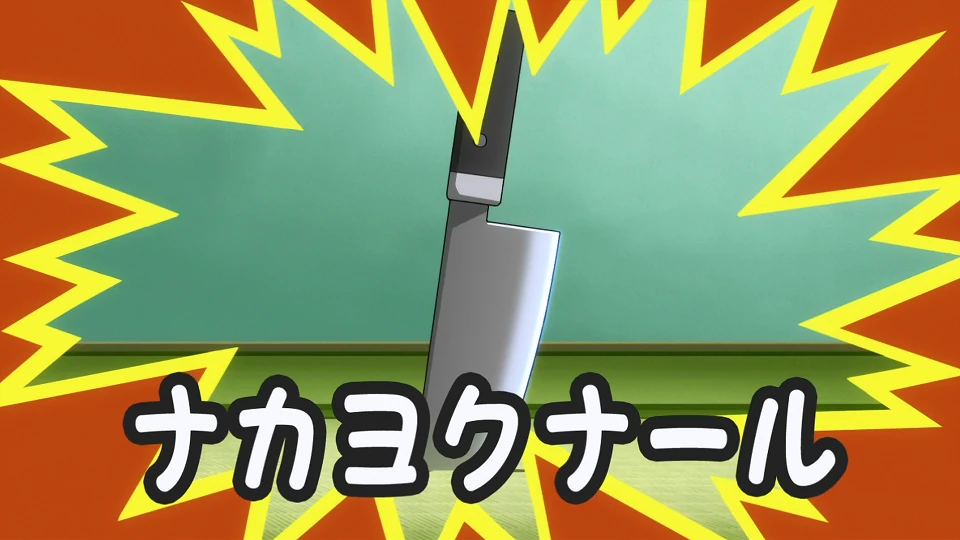
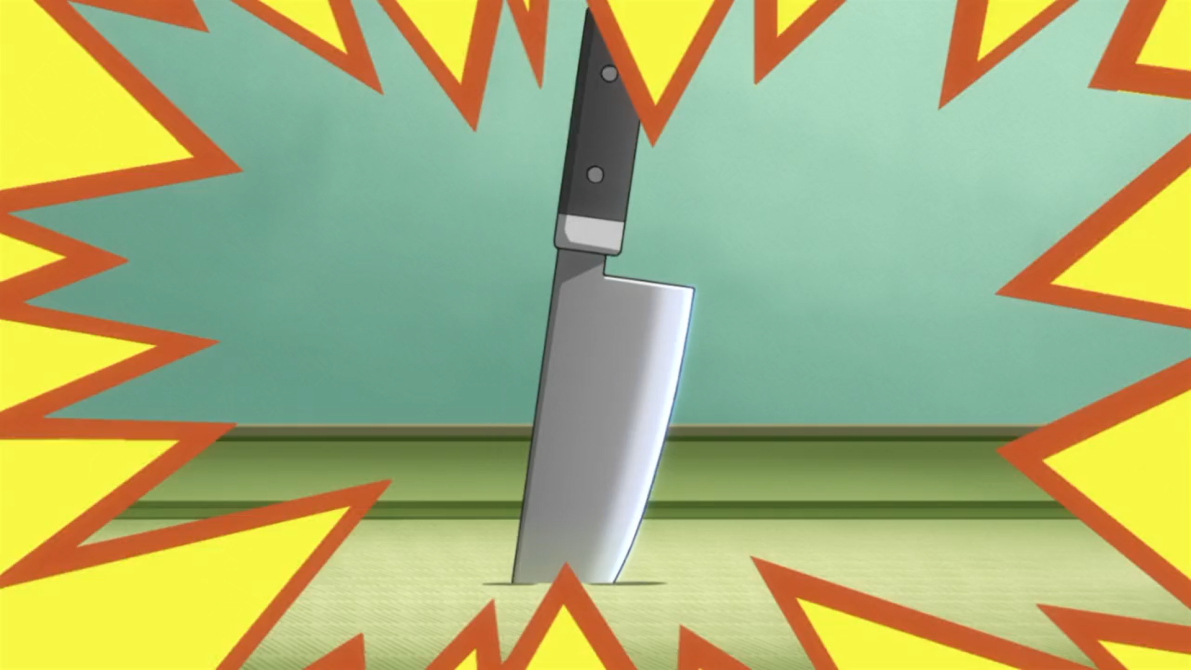
remove capitalization from commands, update helpme command image

diff --git a/bot.py b/bot.py
@@ -33,13 +33,13 @@ async def hello(ctx):
 
 # Daily Useless Fact
 @bot.command(pass_context=True)
-async def dailyUseless(ctx):
+async def dailyuseless(ctx):
     uselessFact = requests.get("https://uselessfacts.jsph.pl/api/v2/facts/today")
     await ctx.send(uselessFact.json()["text"])
 
 # Random Useless Fact
 @bot.command(pass_context=True)
-async def randomUseless(ctx):
+async def randomuseless(ctx):
     uselessFact = requests.get("https://uselessfacts.jsph.pl/api/v2/facts/random")
     await ctx.send(uselessFact.json()["text"])
 
@@ -53,13 +53,13 @@ async def salute(ctx): #context gets passed into the first parameter
 
 # 
 @bot.command(pass_contex = True)
-async def helpMe(ctx, *, arg):
+async def helpme(ctx, *, arg):
     text = arg + " Kit!"
     img = Image.open('images/wish.png')
     I1 = ImageDraw.Draw(img)
     myFont = ImageFont.truetype("fonts/trebuc.ttf", 110)
     # 122, 371
-    I1.text((125,371), text, font=myFont, fill=(255,255,255), stroke_width=10, stroke_fill=(0,0,0))
+    I1.text((180,500), text, font=myFont, fill=(255,255,255), stroke_width=10, stroke_fill=(0,0,0))
     location = "images/wishMeme.png"
     img.save(location)
     picture = discord.File(location)
@@ -69,7 +69,7 @@ async def helpMe(ctx, *, arg):
         os.remove(location)
 
 @bot.command(pass_contex = True)
-async def SunTzu(ctx):
+async def artofwar(ctx):
     f = open("jsons/quotes.json")
     data = json.load(f)
     upper = len(data)

diff --git a/readme.md b/readme.md
@@ -7,19 +7,19 @@ My first attempt at a Discord Bot
 ```!hello```  
 Bot messages @[user]
 
-```!randomUseless```  
+```!randomuseless```  
 
 Bot sends a random fact from https://uselessfacts.jsph.pl/
 
-```!dailyUseless```  
+```!dailyuseless```  
 
 Bot sends the daily fact from https://uselessfacts.jsph.pl/
 
-```!helpMe```  
+```!helpme```  
 
 Bot sends a meme edit of a scene of the character Seihai-Kun from the anime Carnival Phantasm
 
-```!SunTzu```  
+```!artofwar```  
 
 Bot sends a random quote from the Art of War
 
@@ -32,5 +32,6 @@ Bot sends a value between 1 and X, inclusive. Truncates non-integers, does not w
 Bot sends the message Y
 
 ## To-Do List
+- Center meme text
 - Get weather given some information
 - Something that checks for reactions, deletes message
